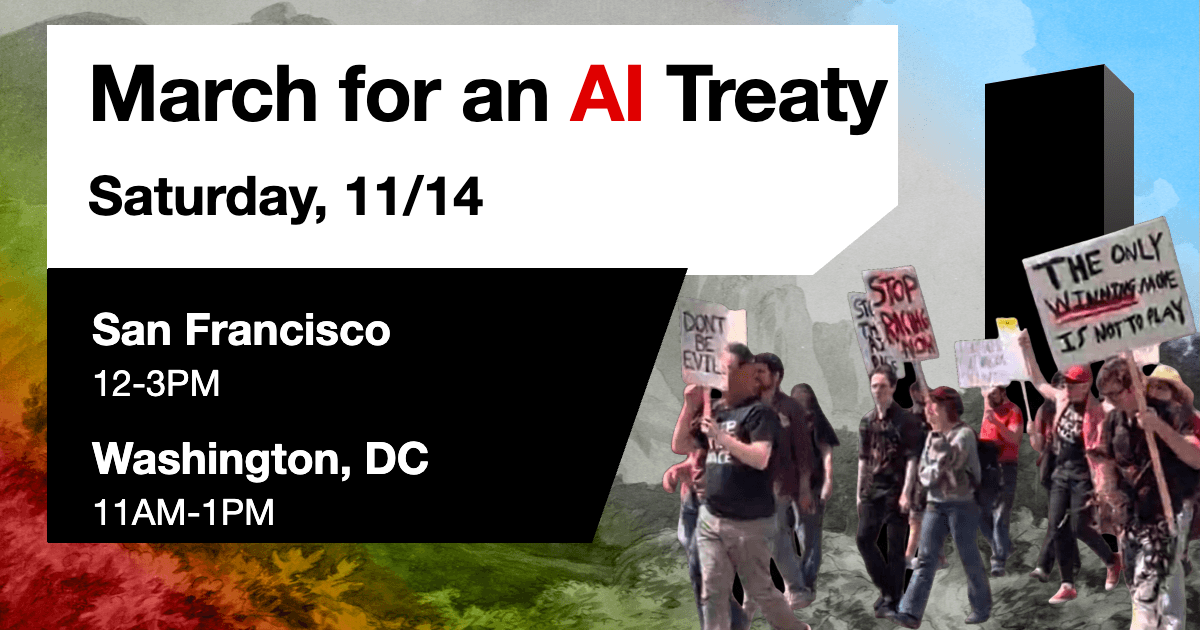
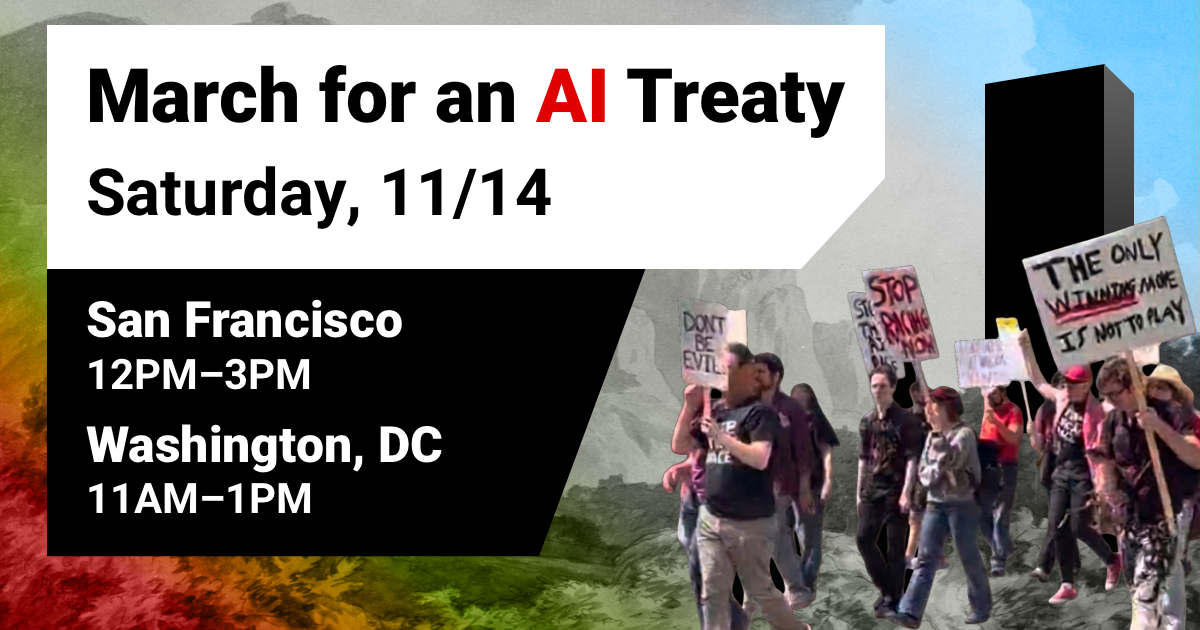
Update OG image to og-2.png (new name required to prevent X/Facebook/etc. from using old image)

diff --git a/index.html b/index.html
@@ -9,11 +9,11 @@
 <meta property="og:description" content="March for an AI Treaty. Saturday, Nov 14 in San Francisco, Washington, DC, New York, Boston, Montréal, Toronto, Paris and Marseille.">
 <meta property="og:type" content="website">
 <meta property="og:url" content="https://aitreatymarch.org">
-<meta property="og:image" content="https://aitreatymarch.org/img/og.png">
+<meta property="og:image" content="https://aitreatymarch.org/img/og-2.png">
 <meta property="og:image:width" content="1200">
 <meta property="og:image:height" content="630">
 <meta name="twitter:card" content="summary_large_image">
-<meta name="twitter:image" content="https://aitreatymarch.org/img/og.png">
+<meta name="twitter:image" content="https://aitreatymarch.org/img/og-2.png">
 <link rel="icon" href="img/favicon.svg" type="image/svg+xml">
 <link rel="icon" href="img/favicon-32.png" type="image/png" sizes="32x32">
 <link rel="apple-touch-icon" href="img/apple-touch-icon.png">
